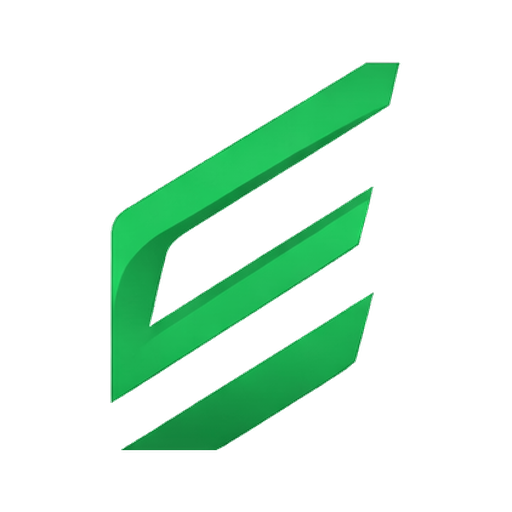
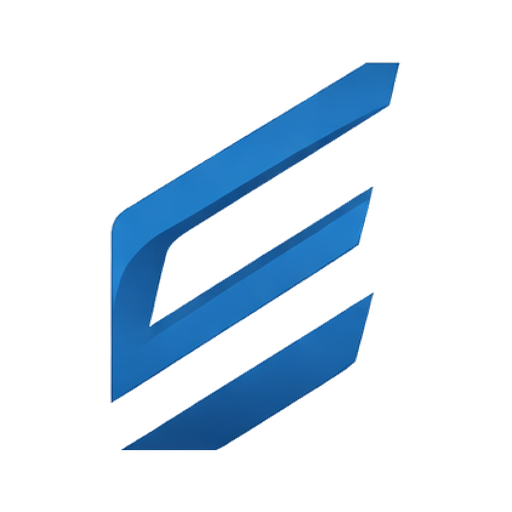
Retours client : retour au bleu, hero clarifié, réordonnancement accueil, projets concrets
1. Couleurs : retour à la dominante bleue (palette, logo, favicon, theme-color)
2. Hero : 'Trouvez les bons artisans pour vos projets de rénovation' + sous-titre clair
7. Accueil réordonné : Hero, Chiffres, Chacun y trouve sa place, Comment ça
   fonctionne, Le réseau, EG-PRO en action, Du concret, Transformations, Avis,
   Formulaire de contact
8. Suppression de 'Des projets accompagnés de toutes natures' (doublon)
9. 'EG-PRO en action' placé juste après 'Le réseau'
10. Section 'Du concret' : 8 projets concrets réels (Bulle, Guebwiller, Mulhouse,
    Burnhaupt, Brunstatt, Saint-Louis...)
11. Wording : projet 3D corrigé (EG-PRO n'a pas fait la 3D), rôle = mise en
    relation / accompagnement / recherche de sous-traitants
+ formulaire de contact ajouté en bas de l'accueil

Changed region(s): [[0.2188, 0.125, 0.7812, 0.7812], [0.25, 0.5625, 0.75, 0.9062]]

diff --git a/components/home/HomeContact.tsx b/components/home/HomeContact.tsx
@@ -1,0 +1,66 @@
+import SectionHeading from "@/components/SectionHeading";
+import Reveal from "@/components/Reveal";
+import ContactForm from "@/components/ContactForm";
+import { SITE, WHATSAPP_URL } from "@/lib/site";
+
+/** Section formulaire de contact en bas de l'accueil. */
+export default function HomeContact() {
+  return (
+    <section className="bg-brand-soft/40 py-20 md:py-28">
+      <div className="container-x grid gap-12 lg:grid-cols-[1fr_1.1fr]">
+        <div>
+          <SectionHeading
+            eyebrow="Contact"
+            title="Parlons de votre projet"
+            intro="Besoin d'un devis, d'un conseil ou d'un contact fiable ? Expliquez-moi votre besoin, je vous oriente vers le bon partenaire."
+          />
+          <div className="mt-8 space-y-3">
+            <Reveal>
+              <a href={`tel:${SITE.phoneIntl}`} data-cursor="Appeler" className="group flex items-center gap-4 rounded-3xl border border-ink/8 bg-white p-5 transition-colors hover:border-brand/40">
+                <span className="flex h-12 w-12 items-center justify-center rounded-2xl bg-brand text-white shadow-glow">
+                  <svg width="22" height="22" viewBox="0 0 24 24" fill="none" stroke="currentColor" strokeWidth="1.7" strokeLinecap="round" strokeLinejoin="round"><path d="M3 5.5C3 4.1 4.1 3 5.5 3H7c.6 0 1.1.4 1.3 1l.9 3.2c.1.5 0 1-.4 1.4L7.5 10c1 2.2 2.3 3.5 4.5 4.5l1.4-1.3c.4-.4.9-.5 1.4-.4l3.2.9c.6.2 1 .7 1 1.3v1.5c0 1.4-1.1 2.5-2.5 2.5C9.6 19.5 4.5 14.4 3 5.5z" fill="currentColor" /></svg>
+                </span>
+                <span>
+                  <span className="block text-xs uppercase tracking-wide text-muted">Appelez-moi</span>
+                  <span className="font-display text-lg font-semibold text-ink">{SITE.phone}</span>
+                </span>
+              </a>
+            </Reveal>
+            <Reveal delay={0.08}>
+              <a href={`mailto:${SITE.email}`} data-cursor="Email" className="group flex items-center gap-4 rounded-3xl border border-ink/8 bg-white p-5 transition-colors hover:border-brand/40">
+                <span className="flex h-12 w-12 items-center justify-center rounded-2xl bg-brand text-white shadow-glow">
+                  <svg width="22" height="22" viewBox="0 0 24 24" fill="none" stroke="currentColor" strokeWidth="1.7" strokeLinecap="round" strokeLinejoin="round"><path d="M3 7a2 2 0 0 1 2-2h14a2 2 0 0 1 2 2v10a2 2 0 0 1-2 2H5a2 2 0 0 1-2-2V7zm1 0l8 6 8-6" /></svg>
+                </span>
+                <span>
+                  <span className="block text-xs uppercase tracking-wide text-muted">Écrivez-moi</span>
+                  <span className="font-display text-lg font-semibold text-ink">{SITE.email}</span>
+                </span>
+              </a>
+            </Reveal>
+            <Reveal delay={0.16}>
+              <a href={WHATSAPP_URL} target="_blank" rel="noopener noreferrer" data-cursor="WhatsApp" className="group flex items-center gap-4 rounded-3xl border border-ink/8 bg-white p-5 transition-colors hover:border-brand/40">
+                <span className="flex h-12 w-12 items-center justify-center rounded-2xl bg-[#25D366] text-white shadow-glow">
+                  <svg width="22" height="22" viewBox="0 0 24 24" fill="currentColor"><path d="M12.04 2c-5.5 0-9.96 4.46-9.96 9.96 0 1.76.46 3.45 1.32 4.95L2 22l5.25-1.38a9.9 9.9 0 0 0 4.79 1.22c5.5 0 9.96-4.46 9.96-9.96S17.54 2 12.04 2z" /></svg>
+                </span>
+                <span>
+                  <span className="block text-xs uppercase tracking-wide text-muted">WhatsApp</span>
+                  <span className="font-display text-lg font-semibold text-ink">Discutons en direct</span>
+                </span>
+              </a>
+            </Reveal>
+          </div>
+        </div>
+
+        <Reveal delay={0.1}>
+          <div className="rounded-4xl border border-ink/8 bg-white p-7 shadow-soft md:p-9">
+            <h3 className="font-display text-2xl font-bold text-ink">Votre demande</h3>
+            <p className="mt-1.5 text-sm text-muted">Je vous réponds rapidement.</p>
+            <div className="mt-6">
+              <ContactForm />
+            </div>
+          </div>
+        </Reveal>
+      </div>
+    </section>
+  );
+}

diff --git a/lib/site.ts b/lib/site.ts
@@ -454,26 +454,46 @@ export const INVESTOR_STEPS = [
   },
 ];
 
-// Exemples de dossiers accompagnés (anonymisés, pour rassurer sans divulguer d'adresses).
+// Exemples de projets concrets accompagnés (sans adresses précises).
 export const DOSSIERS = [
   {
-    tag: "Immeuble · plusieurs lots",
-    title: "Rénovation complète d'un immeuble",
-    desc: "Mise en relation avec les entreprises adaptées pour une rénovation complète, du gros œuvre aux finitions.",
+    tag: "Maison · secteur de Bulle",
+    title: "Rénovation d'une maison",
+    desc: "Accompagnement d'une entreprise de rénovation sur une maison dans le secteur de Bulle, avec mise en relation pour la menuiserie extérieure complète, le sanitaire complet et la pose de sol.",
   },
   {
-    tag: "Bien locatif",
-    title: "Remise en état avant mise en location",
-    desc: "Rafraîchissement et mise aux normes pour relouer rapidement, avec des artisans fiables et réactifs.",
+    tag: "Aménagement intérieur",
+    title: "Projet avec simulation 3D intérieure",
+    desc: "Sur ce projet, EG-PRO intervient sur la menuiserie intérieure complète, les habillages muraux et le plan de travail avec finition marbrée.",
   },
   {
-    tag: "Création de lots",
-    title: "Accompagnement d'un projet de division",
-    desc: "Orientation vers les bons intervenants pour diviser un bien et en optimiser la valeur.",
+    tag: "Immeuble · Guebwiller",
+    title: "Rénovation d'immeuble",
+    desc: "Accompagnement d'une entreprise de rénovation dans la recherche de sous-traitants pour la rénovation d'un immeuble sur le secteur de Guebwiller, avec intervention sur les lots sanitaire, façade, menuiserie extérieure et terrassement.",
   },
   {
-    tag: "Syndic · copropriété",
-    title: "Travaux de copropriété votés en AG",
-    desc: "Obtention de devis comparatifs et mise en relation pour des travaux votés en assemblée générale.",
+    tag: "Copropriété · Mulhouse",
+    title: "Remplacement de chaudière",
+    desc: "Accompagnement d'un investisseur immobilier pour le remplacement d'une chaudière dans une copropriété à Mulhouse.",
+  },
+  {
+    tag: "Particuliers · Burnhaupt",
+    title: "Pose de portes coulissantes",
+    desc: "Installation de portes coulissantes chez des particuliers dans le secteur de Burnhaupt.",
+  },
+  {
+    tag: "Syndic · secteur mulhousien",
+    title: "Porte d'entrée de copropriété",
+    desc: "Remplacement d'une porte d'entrée de copropriété sur le secteur mulhousien pour un syndic de copropriété.",
+  },
+  {
+    tag: "Immeuble · Brunstatt",
+    title: "Rénovation multi-lots",
+    desc: "Pour un immeuble à Brunstatt, accompagnement d'une entreprise de rénovation dans la mise en relation avec des sous-traitants pour les lots façade, électricité, sanitaire, pose de sol PVC, carrelage et parquet.",
+  },
+  {
+    tag: "Locaux pro · Saint-Louis",
+    title: "Rénovation de locaux professionnels",
+    desc: "Accompagnement d'une entreprise de rénovation pour la rénovation complète de locaux professionnels sur le secteur de Saint-Louis, avec mise en relation pour les lots électricité, plaquiste et sol.",
   },
 ];

diff --git a/app/realisations/page.tsx b/app/realisations/page.tsx
@@ -33,19 +33,19 @@ export default function RealisationsPage() {
           <Reveal>
             <div>
               <h2 className="font-display text-3xl font-bold text-ink sm:text-4xl">
-                Le Républicain — réaménagement complet
+                Aménagement intérieur — projet avec simulation 3D
               </h2>
               <p className="mt-4 text-muted">
-                Mise en relation et apport d'affaires pour la transformation d'un
-                café-tabac emblématique de Mulhouse. De la façade existante à la
-                simulation 3D de l'intérieur rénové, j'ai connecté le porteur de
-                projet aux bonnes entreprises.
+                Un projet présentant la façade existante et une simulation 3D de
+                l'intérieur rénové. Sur ce projet, EG-PRO intervient sur la
+                menuiserie intérieure complète, les habillages muraux et le plan
+                de travail avec finition marbrée.
               </p>
               <ul className="mt-6 space-y-3">
                 {[
-                  "Étude de l'existant et du potentiel du lieu",
-                  "Mise en relation avec les corps de métier adaptés",
-                  "Facilitation des échanges jusqu'à la réalisation",
+                  "Menuiserie intérieure complète",
+                  "Habillages muraux",
+                  "Plan de travail finition marbrée",
                 ].map((p) => (
                   <li key={p} className="flex items-start gap-3 text-ink/80">
                     <svg className="mt-0.5 shrink-0 text-brand" width="18" height="18" viewBox="0 0 24 24" fill="none" stroke="currentColor" strokeWidth="2.5" strokeLinecap="round" strokeLinejoin="round"><path d="M20 6 9 17l-5-5" /></svg>

diff --git a/app/page.tsx b/app/page.tsx
@@ -4,11 +4,11 @@ import StatsBand from "@/components/home/StatsBand";
 import Audiences from "@/components/Audiences";
 import ProcessScroll from "@/components/home/ProcessScroll";
 import Network from "@/components/Network";
-import ProjectsPreview from "@/components/home/ProjectsPreview";
-import Dossiers from "@/components/Dossiers";
-import Testimonials from "@/components/home/Testimonials";
 import BuildShowcase from "@/components/home/BuildShowcase";
-import CTA from "@/components/CTA";
+import Dossiers from "@/components/Dossiers";
+import ProjectsPreview from "@/components/home/ProjectsPreview";
+import Testimonials from "@/components/home/Testimonials";
+import HomeContact from "@/components/home/HomeContact";
 
 export default function HomePage() {
   return (
@@ -21,14 +21,11 @@ export default function HomePage() {
       <Audiences muted />
       <ProcessScroll />
       <Network />
-      <ProjectsPreview />
-      <Dossiers light />
-      <Testimonials />
       <BuildShowcase />
-      <CTA
-        title="Vous avez un immeuble à rénover ou un projet d'investissement ?"
-        text="Échangeons sur votre projet. Je vous oriente vers les bonnes entreprises, sans engagement."
-      />
+      <Dossiers light />
+      <ProjectsPreview />
+      <Testimonials />
+      <HomeContact />
     </>
   );
 }

diff --git a/components/Network.tsx b/components/Network.tsx
@@ -1,6 +1,5 @@
-import SectionHeading from "@/components/SectionHeading";
 import Reveal from "@/components/Reveal";
-import { TRADES, PROJECT_TAGS } from "@/lib/site";
+import { TRADES } from "@/lib/site";
 
 /** Réseau de partenaires (20+ corps de métier) + types de projets accompagnés. */
 export default function Network() {
@@ -37,25 +36,6 @@ export default function Network() {
               ))}
             </div>
           </Reveal>
-        </div>
-
-        {/* Projets accompagnés */}
-        <div className="mt-16 border-t border-white/10 pt-10">
-          <Reveal>
-            <h3 className="font-display text-xl font-bold text-white sm:text-2xl">
-              Des projets accompagnés de toutes natures
-            </h3>
-          </Reveal>
-          <div className="mt-5 flex flex-wrap gap-2.5">
-            {PROJECT_TAGS.map((t, i) => (
-              <Reveal key={t} delay={i * 0.04}>
-                <span className="inline-flex items-center gap-2 rounded-full bg-brand px-4 py-2 text-sm font-medium text-white">
-                  <span className="h-1.5 w-1.5 rounded-full bg-white/70" />
-                  {t}
-                </span>
-              </Reveal>
-            ))}
-          </div>
         </div>
       </div>
     </section>

diff --git a/components/home/Hero.tsx b/components/home/Hero.tsx
@@ -59,8 +59,8 @@ export default function Hero() {
             transition={{ duration: 0.9, delay: 0.2, ease: [0.16, 1, 0.3, 1] }}
             className="mt-6 font-display text-[2rem] font-bold leading-[1.1] [text-wrap:balance] sm:text-5xl lg:text-[3.1rem]"
           >
-            Développez vos projets de rénovation avec{" "}
-            <span className="text-gradient">les bons partenaires.</span>
+            Trouvez les bons artisans pour vos{" "}
+            <span className="text-gradient">projets de rénovation.</span>
           </motion.h1>
 
           <motion.p
@@ -69,8 +69,9 @@ export default function Hero() {
             transition={{ duration: 0.7, delay: 0.55 }}
             className="mt-6 max-w-xl text-lg leading-relaxed text-white/75"
           >
-            Mise en relation, développement de projets et réseau d'entreprises
-            pour l'immobilier et la rénovation.
+            EG-PRO vous met en relation avec des partenaires fiables et
+            accompagne vos projets de rénovation, du premier contact aux bons
+            artisans.
           </motion.p>
 
           <motion.p

diff --git a/app/globals.css b/app/globals.css
@@ -12,11 +12,11 @@
    ============================================================ */
 :root {
   /* ----- VERSION BLEUE (bleu du logo EG-PRO actuel) ----- */
-  --brand: 34 150 95;         /* #22965F  vert principal */
-  --brand-bright: 58 190 122; /* #3ABE7A  vert clair / accents */
-  --brand-dark: 20 90 58;     /* #145A3A  vert foncé */
-  --brand-deep: 8 32 22;      /* #082016  vert nuit (fonds sombres) */
-  --brand-soft: 230 245 237;  /* #E6F5ED  vert très clair (fonds doux) */
+  --brand: 31 111 184;        /* #1F6FB8  bleu principal */
+  --brand-bright: 42 138 214; /* #2A8AD6  bleu clair / accents */
+  --brand-dark: 15 63 110;    /* #0F3F6E  bleu foncé */
+  --brand-deep: 8 27 51;      /* #081B33  bleu nuit (fonds sombres) */
+  --brand-soft: 232 242 251;  /* #E8F2FB  bleu très clair (fonds doux) */
 
   /* ----- Neutres ----- */
   --ink: 17 24 39;            /* texte principal */

diff --git a/components/Header.tsx b/components/Header.tsx
@@ -53,7 +53,7 @@ export default function Header() {
         <div className="container-x flex items-center justify-between">
           <Link href="/" data-cursor="Accueil" className="relative z-10 flex items-center gap-2">
             <Img
-              src="/images/logo/logo-mark-green.png"
+              src="/images/logo/logo-mark.png"
               alt="EG-PRO"
               width={200}
               height={80}

diff --git a/app/layout.tsx b/app/layout.tsx
@@ -49,7 +49,7 @@ export const metadata: Metadata = {
 };
 
 export const viewport: Viewport = {
-  themeColor: "#082016",
+  themeColor: "#081B33",
 };
 
 export default function RootLayout({
